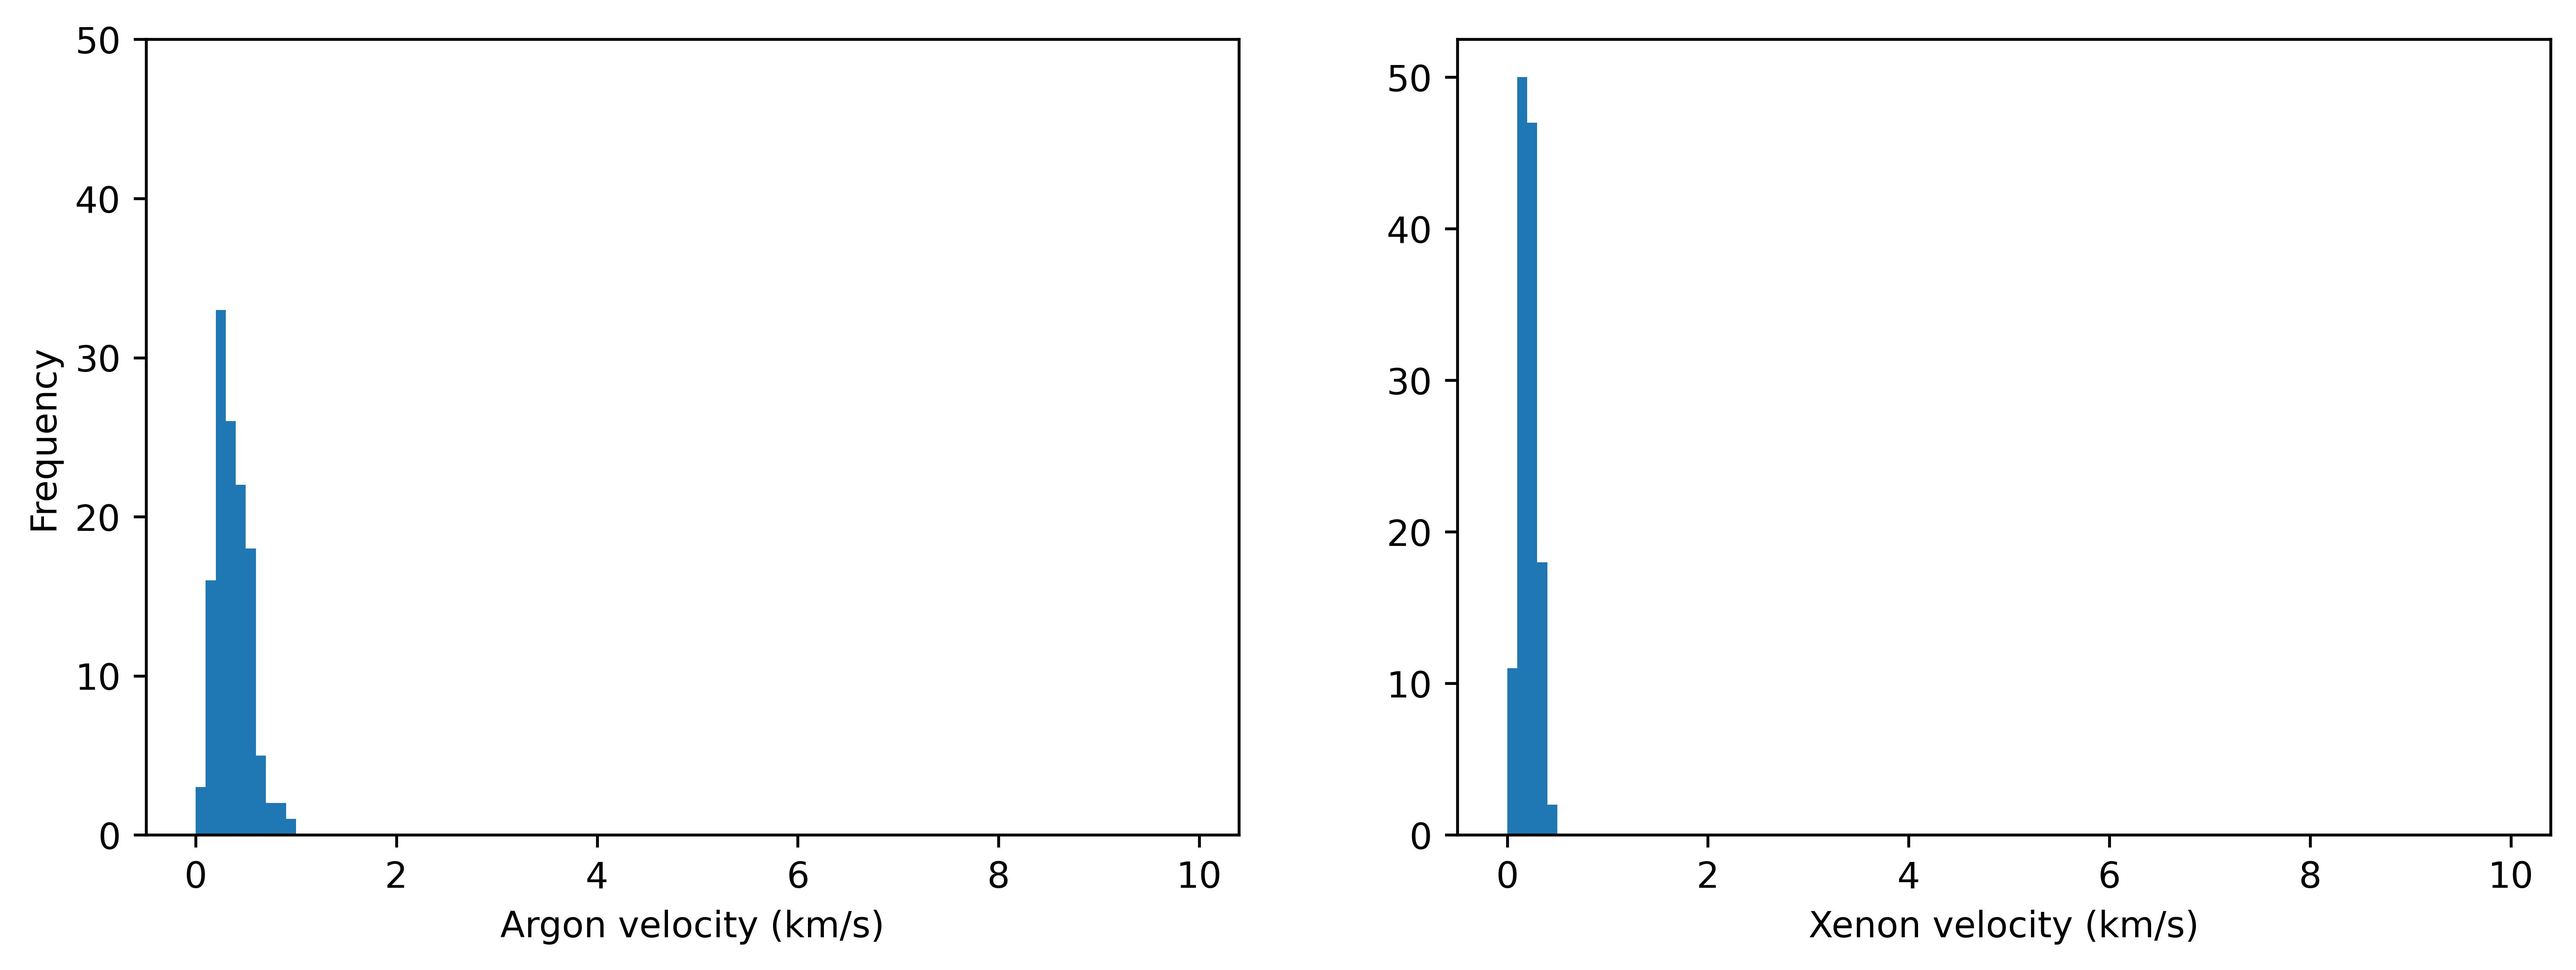
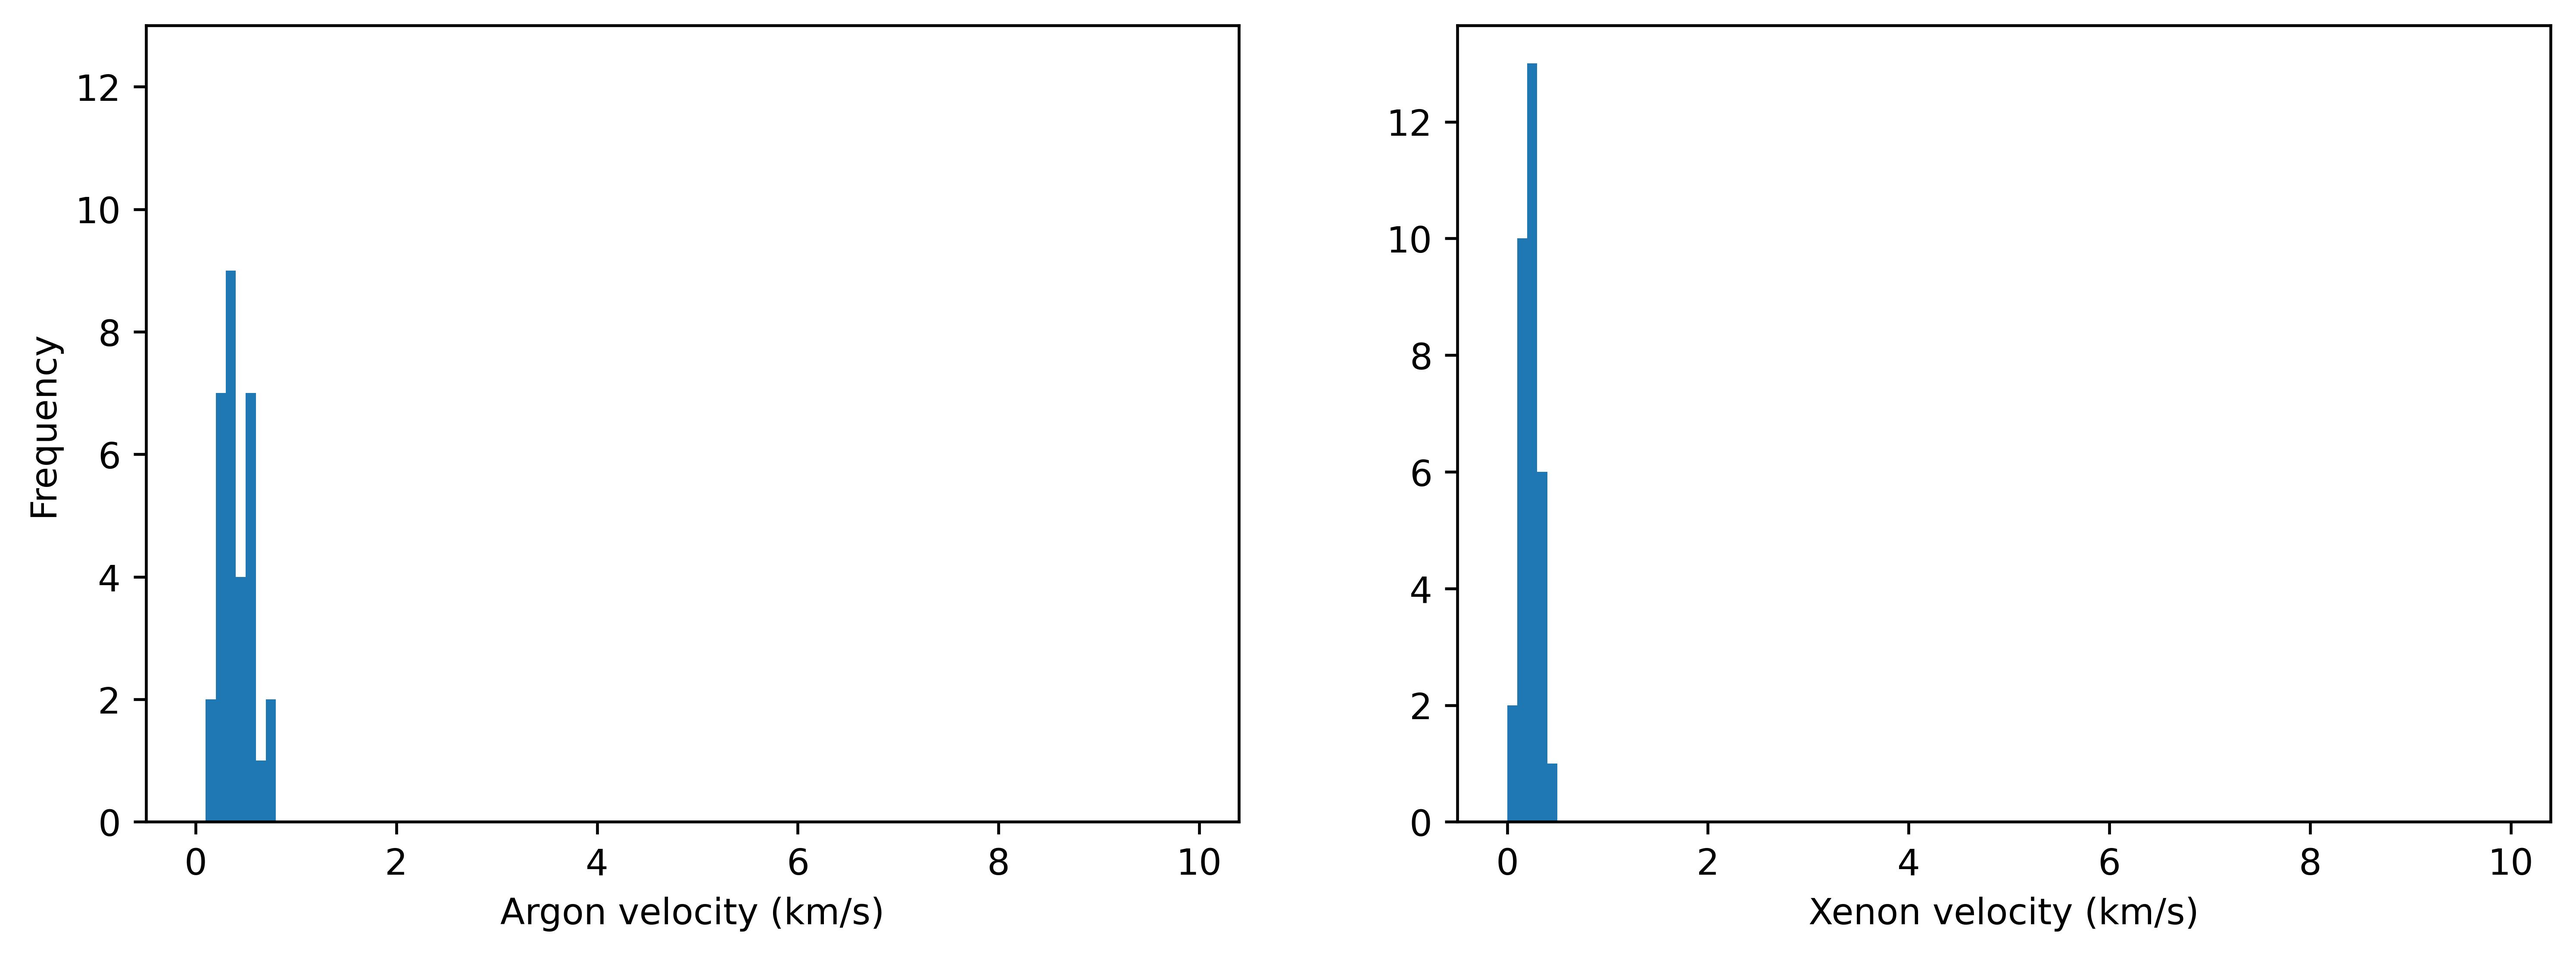
Jul 22nd 2024

diff --git a/src/plot_result.py b/src/plot_result.py
@@ -22,8 +22,37 @@ PICKLE_PATH = {
     }
 """
 
-ROOT = "/Users/macbook/code/mm_polariton/src/pickle_jar"
-PICKLE_PATH = ROOT + "/2024_Jul_21_1"
+parser = argparse.ArgumentParser()
+
+parser.add_argument(
+    "--plot_from", "-c", help = "given the directory path, continue simulation from the last pickle file", 
+    default = None)
+parser.add_argument("--seed", "-s", type = int, help = "random seed for Monte Carlo simulation")
+parser.add_argument(
+    "--min_cav_mode", "-m", type = int,  help = "minimum cavity mode integer"
+        )
+parser.add_argument(
+    "--max_cav_mode", "-x", type = int,  help = "maximum cavity mode integer"
+        )
+parser.add_argument(
+    "--temperature", "-t", type = int,  help = "temperature"
+        )
+parser.add_argument(
+    "--N_atom_pairs", "-N", type = int,  help = "number of pairs of atoms"
+        )
+
+args = parser.parse_args()
+
+if args.plot_from:
+    jar = args.plot_from
+    PICKLE_PATH = "pickle_jar/" + jar
+else:
+    jar = str(args.temperature) + "_" + str(args.N_atom_pairs) + "_" \
+            + str(args.min_cav_mode) + "_" + str(args.max_cav_mode)+ "_" + str(args.seed)
+    PICKLE_PATH = "pickle_jar/" + jar
+
+if not os.path.isdir("figure/" + jar):
+    os.mkdir("figure/" + jar)
 
 rad_profile_list = []
 
@@ -39,7 +68,6 @@ for j, KEYWORDS in enumerate(["cavity","free"]):
     xe_velocity_dist = []
 
     file_dict = categorizing_pickle(PICKLE_PATH, KEYWORDS = KEYWORDS)
-    print(os.listdir(PICKLE_PATH))
 
     final_time = 0
     initial_times = 0
@@ -140,29 +168,26 @@ for j, KEYWORDS in enumerate(["cavity","free"]):
     ax1[0].plot(o, r, label = KEYWORDS)
     rad_profile_list.append(rad_profile)
 
-    fig3.savefig("figure/full_simulation_velocity_profile_"+KEYWORDS+".jpeg",dpi = 600,bbox_inches="tight")
-    fig4.savefig("figure/full_simulation_radiation_"+KEYWORDS+".jpeg",dpi = 600,bbox_inches="tight")
+    fig3.savefig("figure/"+jar+"/full_simulation_velocity_profile_"+KEYWORDS+".jpeg",dpi = 600,bbox_inches="tight")
+    fig4.savefig("figure/"+jar+"/full_simulation_radiation_"+KEYWORDS+".jpeg",dpi = 600,bbox_inches="tight")
 
-if comparison_plot_flag:
-    ax1[0].set_xlabel("Wavenumber (cm^-1)")
-    ax1[0].set_ylabel("Final energy (cm^-1)")
-    ax1[0].legend()
+ax1[0].set_xlabel("Wavenumber (cm^-1)")
+ax1[0].set_ylabel("Final energy (cm^-1)")
+ax1[0].legend()
 
-    profile_diff = (rad_profile_list[0] - rad_profile_list[1])
-    #ax1[1].scatter(omega_profile, profile_diff, 
-    #        s = 5, alpha = 0.5)
-    o,r = moving_average(omega_profile, profile_diff, 20)
-    ax1[1].plot(o,r, label = "Spectra in cavity \n- 'free space")
+profile_diff = (rad_profile_list[0] - rad_profile_list[1])
+#ax1[1].scatter(omega_profile, profile_diff, 
+#        s = 5, alpha = 0.5)
+o,r = moving_average(omega_profile, profile_diff, 20)
+ax1[1].plot(o,r, label = "Spectra in cavity \n- 'free space")
 
-    lf, uf = ax1[1].get_xlim()
-    ax1[1].plot(np.linspace(lf,uf,10), [0]*10, linestyle="dashed", linewidth = 0.5,color="gray")
-    ax1[1].legend()
+lf, uf = ax1[1].get_xlim()
+ax1[1].plot(np.linspace(lf,uf,10), [0]*10, linestyle="dashed", linewidth = 0.5,color="gray")
+ax1[1].legend()
 
-    fig1.savefig("figure/full_simulation_radiation.jpeg",dpi = 600,bbox_inches="tight")
+fig1.savefig("figure/"+jar+"/full_simulation_radiation.jpeg",dpi = 600,bbox_inches="tight")
 
-    ax2[0].annotate('cavity',xy = (0.80,0.95), xycoords='axes fraction')
-    ax2[1].annotate('free',xy = (0.80,0.95), xycoords='axes fraction')
-    fig2.savefig("figure/full_simulation_dipole.jpeg",dpi = 600,bbox_inches="tight")
+ax2[0].annotate('cavity',xy = (0.80,0.95), xycoords='axes fraction')
+ax2[1].annotate('free',xy = (0.80,0.95), xycoords='axes fraction')
+fig2.savefig("figure/"+jar+"/full_simulation_dipole.jpeg",dpi = 600,bbox_inches="tight")
 
-else: 
-    print("Not enough data for comparison plot!")

diff --git a/src/simulation_monte_cavity.py b/src/simulation_monte_cavity.py
@@ -27,18 +27,22 @@ import config
 
 parser = argparse.ArgumentParser()
 
-parser.add_argument("seed", type = int, help = "random seed for Monte Carlo simulation")
+parser.add_argument("--seed", "-s", type = int, help = "random seed for Monte Carlo simulation")
 parser.add_argument(
-    "--date", "-d", help = "given date, start simulation from path /date_seed", 
+    "--continue_from", "-c", help = "given the directory path, continue simulation from the last pickle file", 
     default = None)
+parser.add_argument(
+    "--min_cav_mode", "-m", type = int,  help = "minimum cavity mode integer"
+        )
+parser.add_argument(
+    "--max_cav_mode", "-x", type = int,  help = "maximum cavity mode integer"
+        )
 
 args = parser.parse_args()
 
-exist_jar_flag = False
-
-if args.date == None:
-    pickle_jar_path = "pickle_jar/" + time.strftime("%Y_%b_%d_", time.localtime()) \
-        + str(args.seed)
+if args.continue_from == None:
+    pickle_jar_path = "pickle_jar/" + str(config.K_temp) + "_" + str(config.N_atom_pairs) + "_" \
+            + str(args.min_cav_mode) + "_" + str(args.max_cav_mode)+ "_" + str(args.seed)
     if os.path.isdir(pickle_jar_path):
         file_dict = categorizing_pickle(pickle_jar_path,KEYWORDS = "cavity")
         if len(file_dict) == 0:
@@ -47,14 +51,15 @@ if args.date == None:
             exist_jar_flag = True
     else:
         os.mkdir(pickle_jar_path)
+        exist_jar_flag = False
 
-elif args.date:
-    pickle_jar_path = "pickle_jar/" + args.date + "_" + str(args.seed)
+elif args.continue_from:
+    pickle_jar_path = "pickle_jar/" + args.continue_from
     try:
         assert os.path.isdir(pickle_jar_path)
     except AssertionError:
         raise Exception(
-            "There is no such folder {}! Please check the date or start a new run!".format(
+            "There is no such folder {}! Please check the path or start a new run!".format(
                 pickle_jar_path)
             )
     file_dict = categorizing_pickle(pickle_jar_path,KEYWORDS = "cavity")
@@ -256,7 +261,8 @@ info_dict = {
         "type":"cavity","h":h, "num_cycles":config.num_cycles,
         "N_atom_pairs":config.N_atom_pairs, "L_xy": config.L, "L_z": config.L,
         "temperature":K_temp, "mu0":config.mu0, 
-        "cavity_mode_integer":k_vector2, "probe_mode_integer":config.probe_kvector_int,
+        "cavity_mode_integer":k_vector2, 
+        "probe_mode_integer":config.probe_kvector_int,
         "seed":args.seed, "seed_list":seed_list, "t_final":t,
         "sampler":sampler, 
         "coupling_strength":{"cavity":config.cavity_coupling_strength, "probe":config.probe_coupling_strength}

diff --git a/src/simulation_monte_free.py b/src/simulation_monte_free.py
@@ -27,16 +27,22 @@ import config
 
 parser = argparse.ArgumentParser()
 
-parser.add_argument("seed", type = int, help = "random seed for Monte Carlo simulation")
+parser.add_argument("--seed", "-s", type = int, help = "random seed for Monte Carlo simulation")
 parser.add_argument(
-    "--date", "-d", help = "given date, start simulation from path /date_seed", 
+    "--continue_from", "-c", help = "given the directory path, continue simulation from the last pickle file", 
     default = None)
+parser.add_argument(
+    "--min_cav_mode", "-m", type = int,  help = "minimum cavity mode integer"
+        )
+parser.add_argument(
+    "--max_cav_mode", "-x", type = int,  help = "maximum cavity mode integer"
+        )
 
 args = parser.parse_args()
 
-if args.date == None:
-    pickle_jar_path = "pickle_jar/" + time.strftime("%Y_%b_%d_", time.localtime()) \
-        + str(args.seed)
+if args.continue_from == None:
+    pickle_jar_path = "pickle_jar/" + str(config.K_temp) + "_" + str(config.N_atom_pairs) + "_" \
+            + str(args.min_cav_mode) + "_" + str(args.max_cav_mode)+ "_" + str(args.seed)
     if os.path.isdir(pickle_jar_path):
         file_dict = categorizing_pickle(pickle_jar_path,KEYWORDS = "free")
         if len(file_dict) == 0:
@@ -45,9 +51,10 @@ if args.date == None:
             exist_jar_flag = True
     else:
         os.mkdir(pickle_jar_path)
+        exist_jar_flag = False
 
-elif args.date:
-    pickle_jar_path = "pickle_jar/" + args.date + "_" + str(args.seed)
+elif args.continue_from:
+    pickle_jar_path = "pickle_jar/" + args.continue_from
     try:
         assert os.path.isdir(pickle_jar_path)
     except AssertionError:

diff --git a/src/config.py b/src/config.py
@@ -24,7 +24,7 @@ K_temp = 292
 probe_kvector_int = np.array(
         EM_mode_generate3(min_n = 1, max_n = 300), dtype = np.float64)
 
-N_atom_pairs = 64
+N_atom_pairs = 16
 
 mu0 = red.mu0
 
